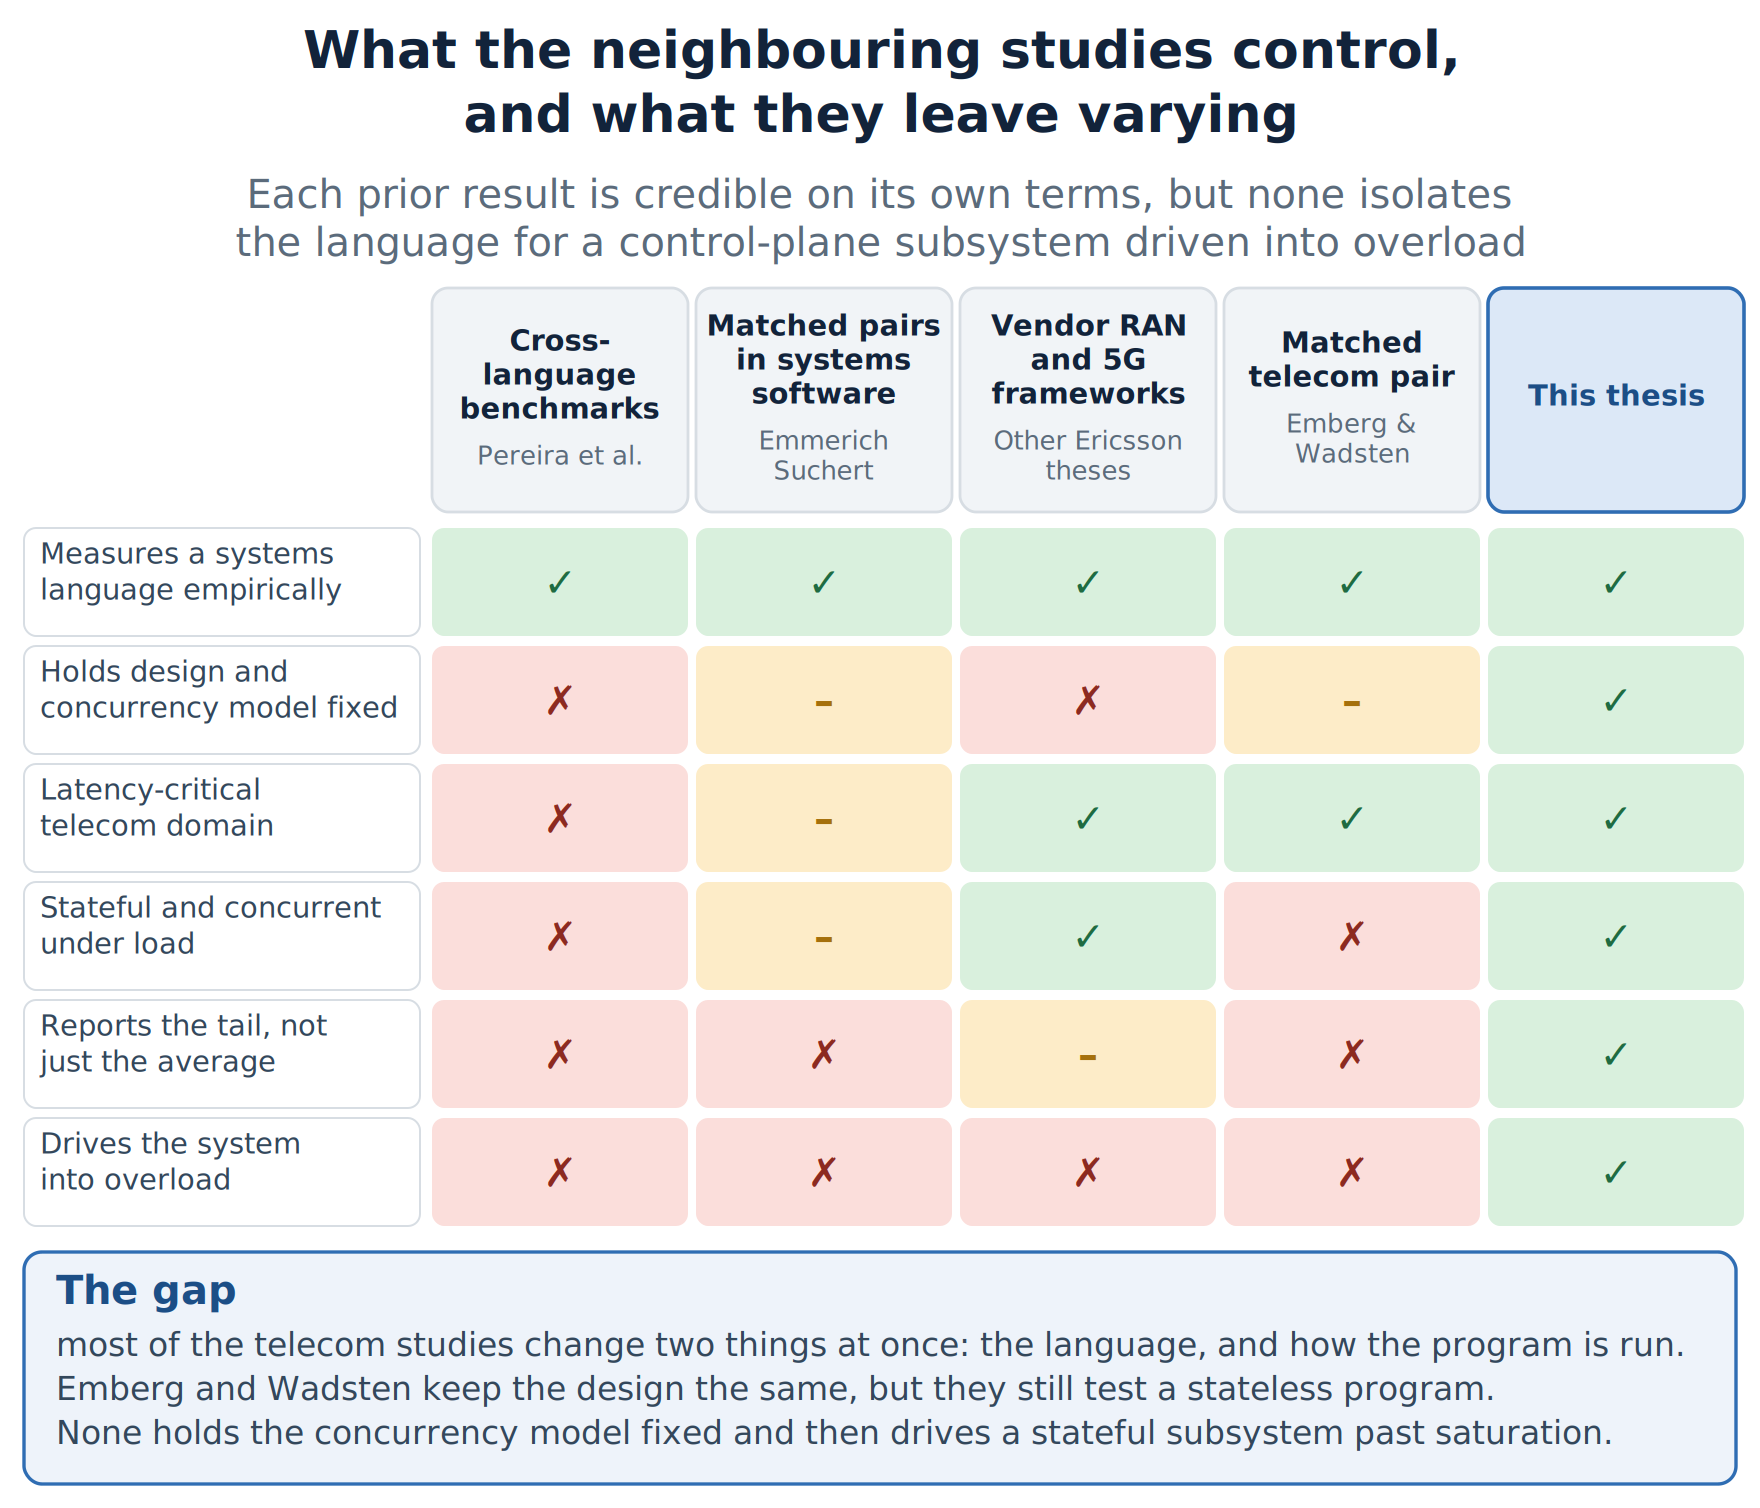
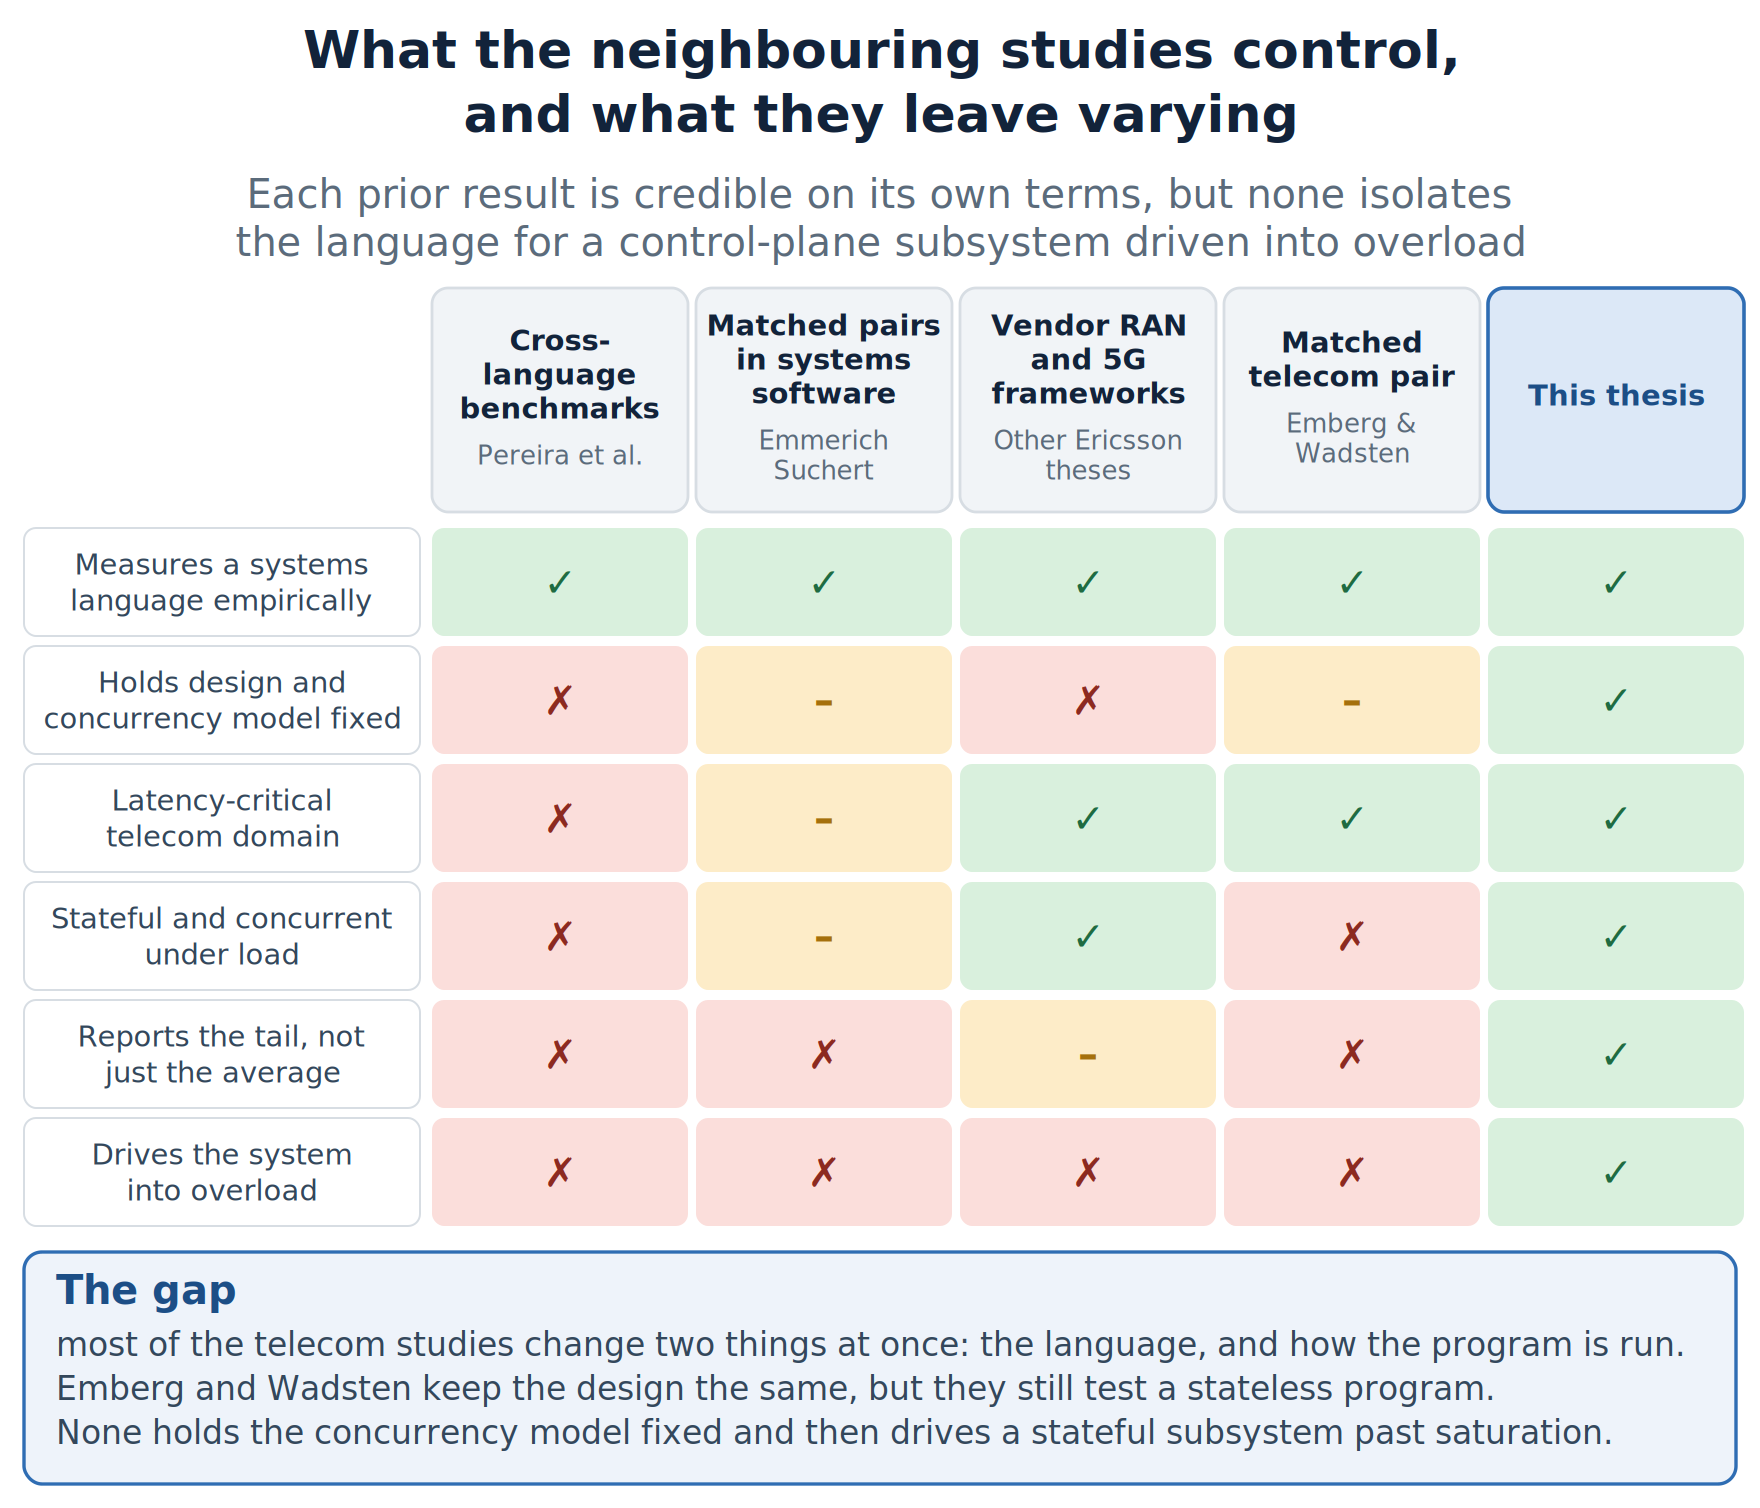
fixed figure 2.2 centralize the text in the table

diff --git a/diagrams/dsl.py b/diagrams/dsl.py
@@ -186,19 +186,33 @@ class Diagram:
 
     def card(self, x, y, w, h, title=None, body=(), fill=WHITE, stroke=BLUE_EDGE,
              rx=7, sw=1.0, title_size=11.5, title_color=NAVY, body_size=11,
-             body_color=MUTED, pad=14, lh=14.5, gap=20, dashed=False):
-        """A titled box. Emits one editable drawio shape carrying its own text."""
+             body_color=MUTED, pad=14, lh=14.5, gap=20, dashed=False,
+             align="left"):
+        """A titled box. Emits one editable drawio shape carrying its own text.
+
+        ``align="center"`` puts the lines on the middle of the box, both ways.
+        The default stays left, which is what the other diagrams were drawn for.
+        """
         self.rect(x, y, w, h, fill, stroke, rx=rx, sw=sw, dashed=dashed)
         self.cells.pop()  # replace the plain rect with a text-bearing shape
 
+        anchor = "middle" if align == "center" else "start"
+        tx = x + w / 2 if align == "center" else x + pad
         cy = y + pad + title_size * 0.55
         if title:
-            self.text(x + pad, cy + 4, title, title_size, title_color, weight=700)
+            self.text(tx, cy + 4, title, title_size, title_color, weight=700,
+                      anchor=anchor)
             cy += gap
+        elif align == "center" and body:
+            # Same optical offset chip() uses for one line, shifted so the
+            # whole block, not the first line, sits on the box center.
+            cy = (y + h / 2 - (len(body) - 1) * lh / 2
+                  + body_size * 0.36 - 4)
         else:
             cy = y + pad + body_size * 0.4
         for i, line in enumerate(body):
-            self.text(x + pad, cy + 4 + i * lh, line, body_size, body_color)
+            self.text(tx, cy + 4 + i * lh, line, body_size, body_color,
+                      anchor=anchor)
 
         # Drop the per-line drawio cells the two calls above created, and put a
         # single rich shape in their place so the .drawio stays editable.
@@ -212,12 +226,18 @@ class Diagram:
             if body:
                 html += "<br><br>"
         html += "<br>".join(_html(b) for b in body)
+        if align == "center":
+            place = "align=center;verticalAlign=middle;spacingLeft=4;spacingRight=4;spacingTop=0;"
+        else:
+            place = (
+                f"align=left;verticalAlign=top;spacingLeft={pad - 4};"
+                f"spacingTop={pad - 10};spacingRight=6;"
+            )
         style = (
             f"rounded={1 if rx else 0};whiteSpace=wrap;html=1;"
             + (f"absoluteArcSize=1;arcSize={rx * 2};" if rx else "")
             + f"fillColor={fill};strokeColor={stroke or 'none'};strokeWidth={sw};"
-            f"align=left;verticalAlign=top;spacingLeft={pad - 4};spacingTop={pad - 10};"
-            f"spacingRight=6;fontSize={body_size};fontColor={body_color};"
+            f"{place}fontSize={body_size};fontColor={body_color};"
             f"fontFamily={MX_FONT};"
         )
         if dashed:

diff --git a/diagrams/build_new_diagrams.py b/diagrams/build_new_diagrams.py
@@ -1153,7 +1153,8 @@ def research_gap():
     row_h, row_gap = 54, 5
     for parts, vals in rows:
         d.card(x0, y, label_w, row_h, None, parts, fill=WHITE, stroke=GREY_EDGE,
-               rx=6, body_size=14.5, body_color=BODY, pad=8, lh=18)
+               rx=6, body_size=14.5, body_color=BODY, pad=8, lh=18,
+               align="center")
         for cx, val in zip(col_x, vals):
             glyph, fill, color = mark[val]
             d.chip(cx, y, col_w, row_h, glyph, fill, color, size=20, rx=6,
